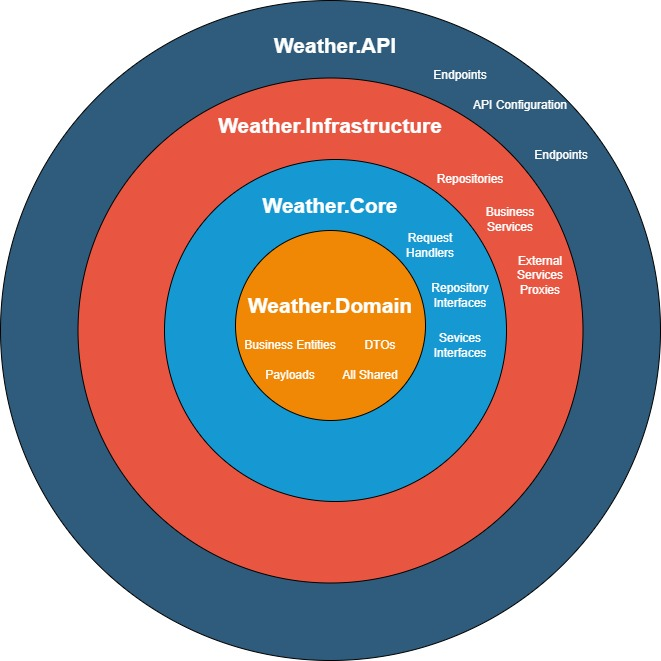
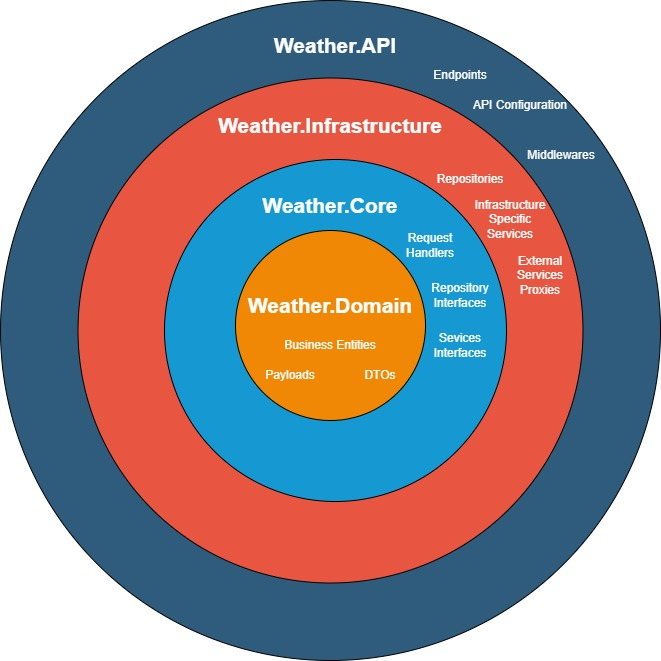
edit diagrams

Changed region(s): [[0.3631, 0.5144, 0.6051, 0.5749], [0.6959, 0.3026, 0.8472, 0.3631], [0.7867, 0.2118, 0.9077, 0.2421]]

diff --git a/src/Weather.Core/Abstractions/IGetFavoritesHandler.cs b/src/Weather.Core/Abstractions/IGetFavoritesHandler.cs
@@ -3,7 +3,7 @@ using Weather.Domain.Dtos;
 
 namespace Weather.Core.Abstractions
 {
-    public interface GetFavoritesHandler : IRequestHandler<FavoritesWeatherDto, EmptyRequest>
+    public interface IGetFavoritesHandler : IRequestHandler<FavoritesWeatherDto, EmptyRequest>
     {
     }
 }

diff --git a/README.md b/README.md
@@ -1,30 +1,32 @@
 # WeatherApi
+C# REST API solution showing practical example of Clean Architecture, minimal API and CQRS, Repository patterns. 
 
-### Purpose
 
 ### Layers
+
+Solution contains four layers: 
+* **WeatherAPI** - entry point of the application
+	*  Endpoints
+	*  Middlewares (or Filters)
+	*  API Configuration
+* **Weather.Infrastructure** - in most data access implementations
+	*  Repositories Implementation - access to database
+	*  External Services Proxies - proxy classes implementation to obtain data from external services)
+	*  Infastructure Specific Services - services which are needed to interact with infrastructure
+* **Weather.Core** - business logic implementatin of the application
+	*  Request Handlers - business implementation
+	*  Interfaces - interfaces for Infrastructure layer (Service, Repository, ..)
+* **Weather.Domain** - POCO classes, extensions, all what needs solution projects
+	* Business Entities
+	* DTOs
+	* Payloads
+	* General Extensions
+
 #### Onion Diagram
 ![Project Clean Architecture Diagram - Onion](./doc/img/cleanArchitectureOnion.jpg)
 #### Horizontal Diagram (references)
 ![Project Clean Architecture Diagram](./doc/img/cleanArchitecture.jpg)
 
-#### API
-#### Infrastructure
-#### Core
-#### Domain
-
-#### WeatherAPI
-
-#### Weather.Infrastructure
-
-#### Weather.Core
-
-#### Weather.Domain
-  
-## Tests
-### Horizontal Diagram With Tests
-
-# IN PROGRESS
 
 
 
